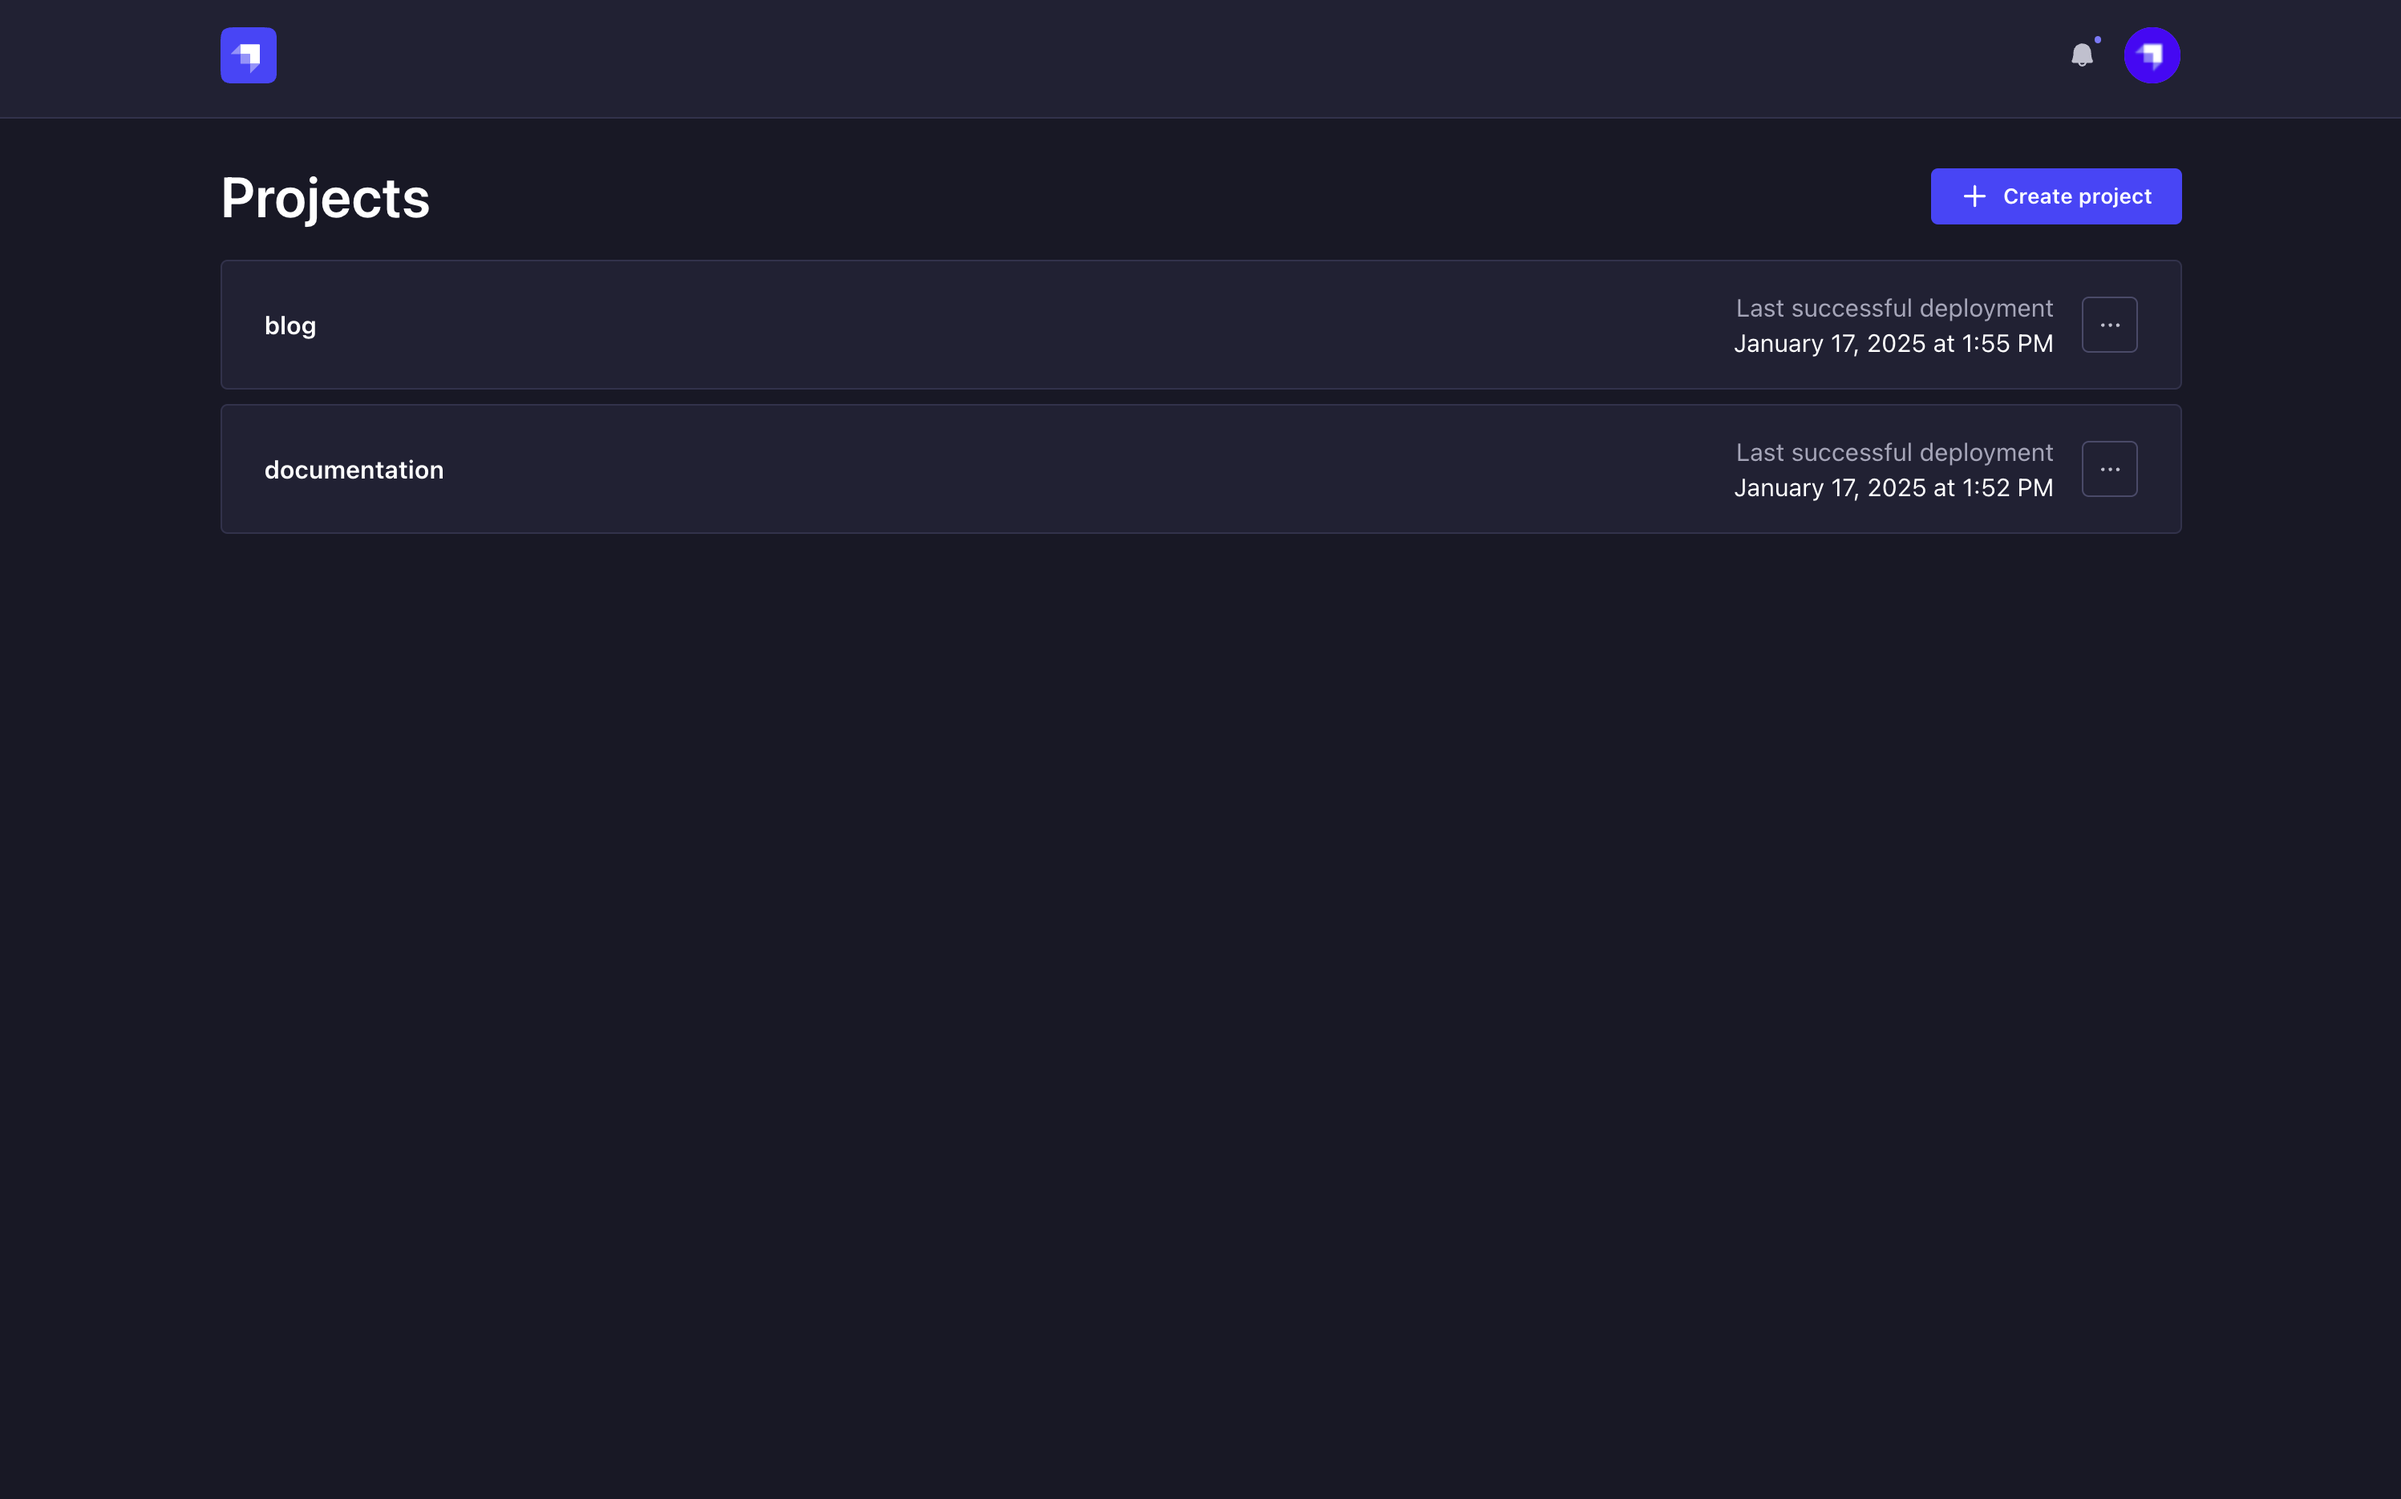
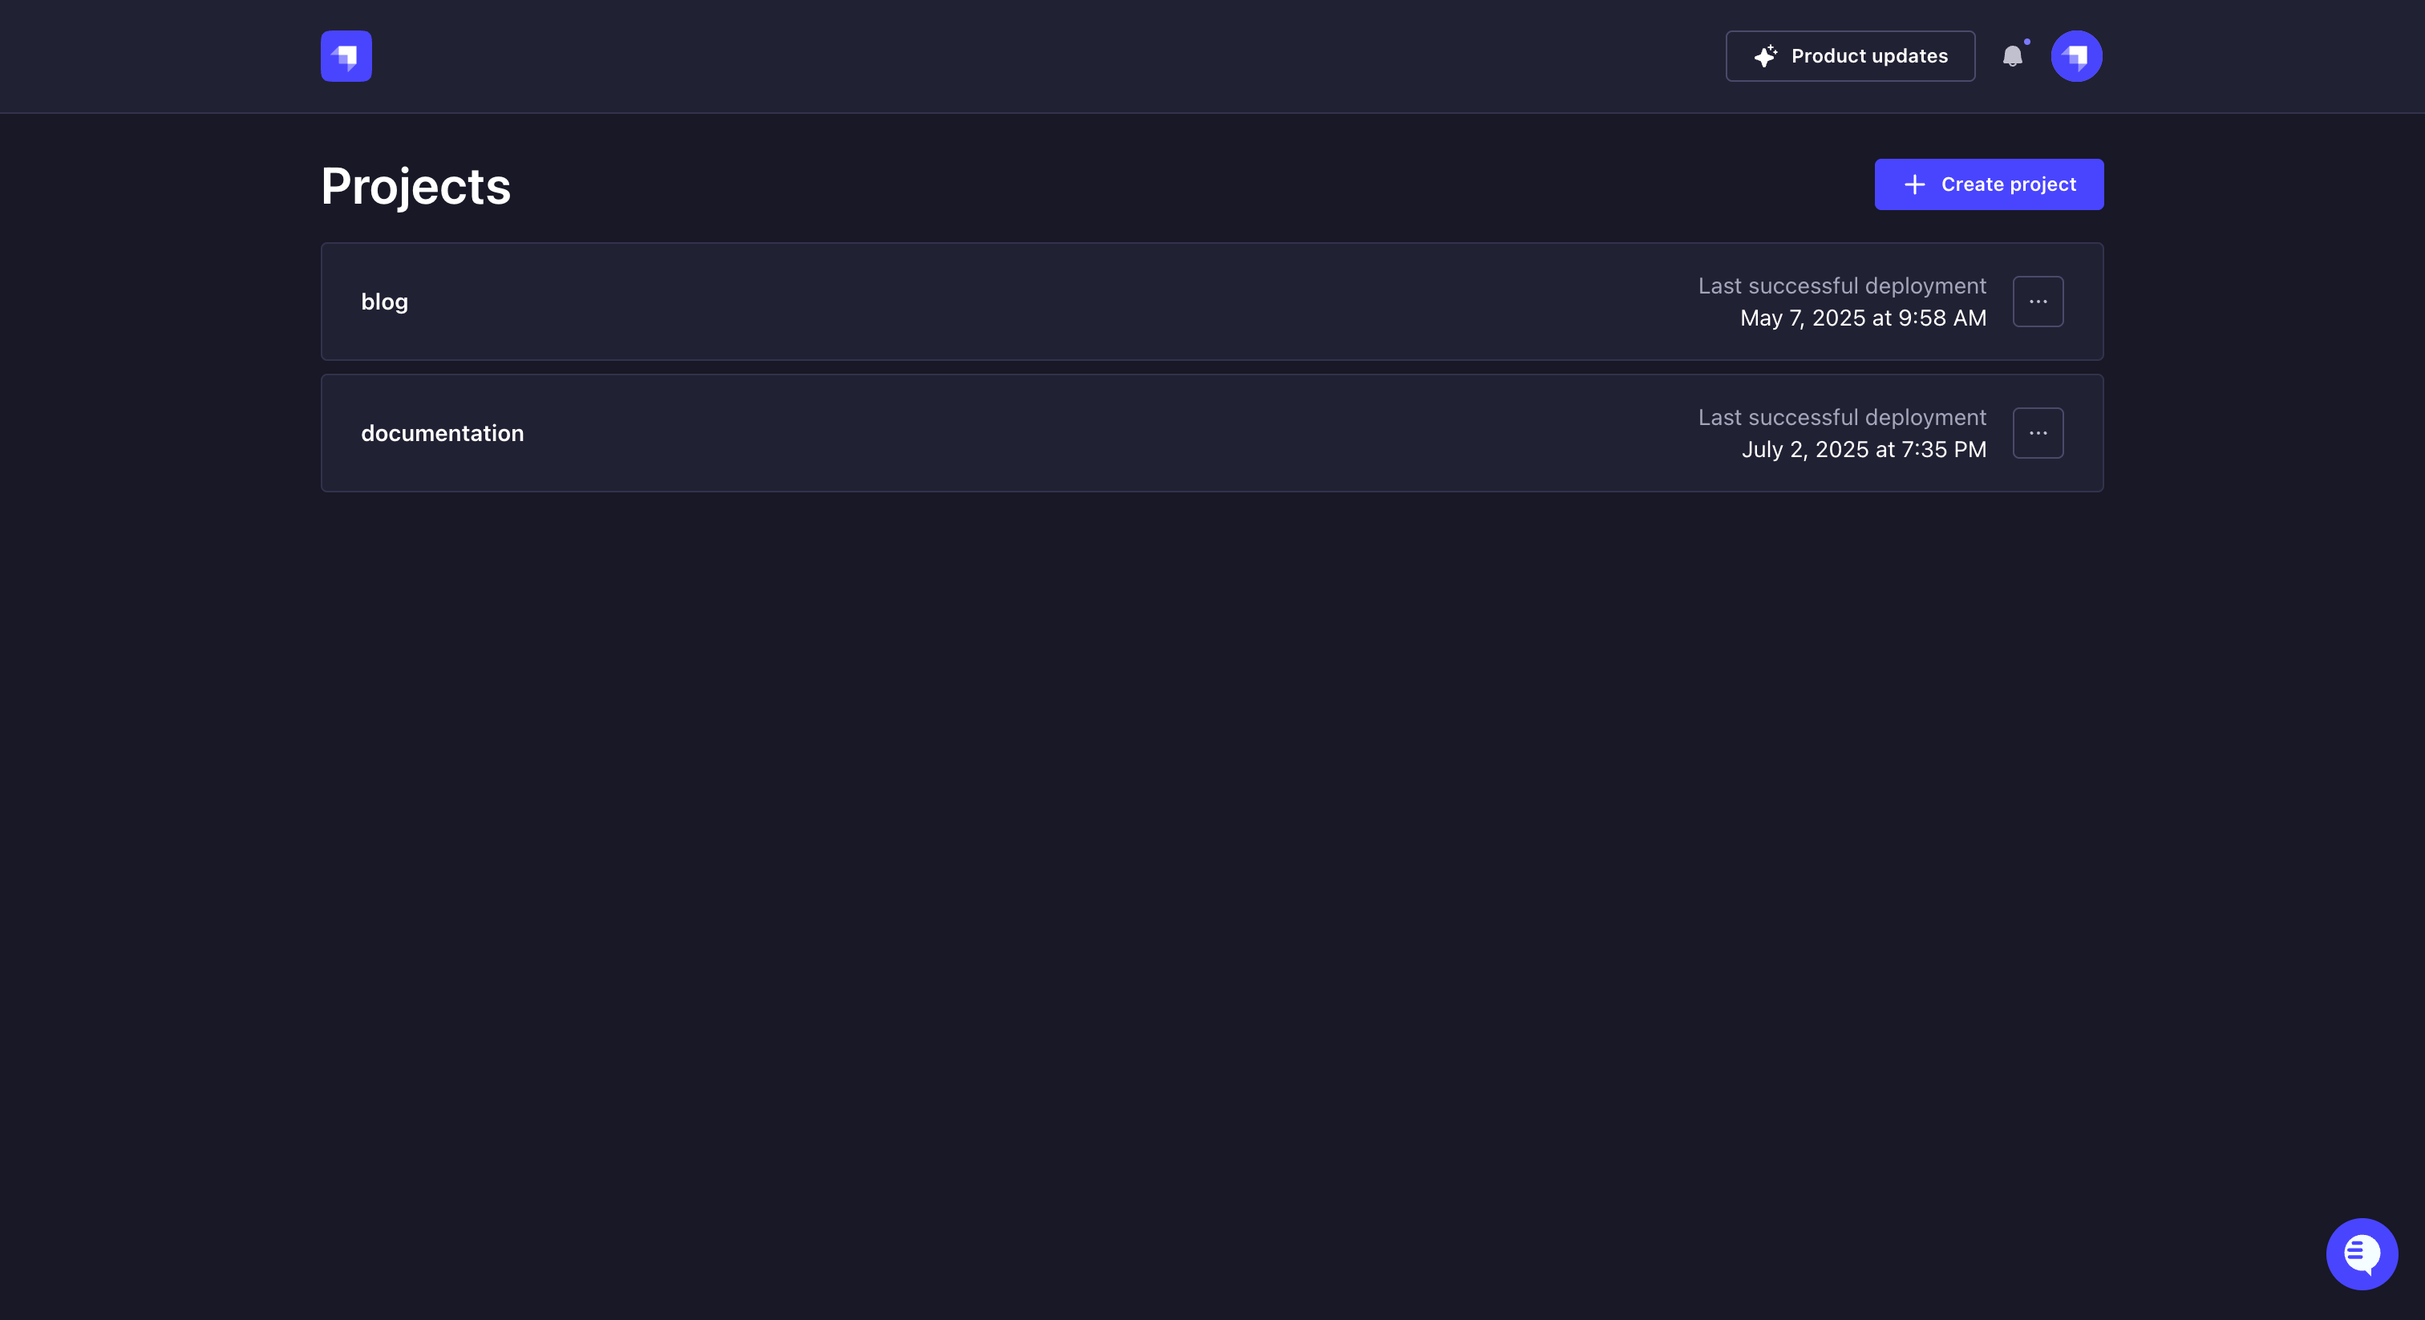
Cloud: Update content for Canny widget

diff --git a/docusaurus/docs/cloud/projects/overview.md b/docusaurus/docs/cloud/projects/overview.md
@@ -37,6 +37,11 @@ Each project card also displays a <Icon name="dots-three-outline" /> menu icon t
 * **Go to Deployments**: to be redirected to the [*Deployment*](/cloud/projects/deploys) page
 * **Go to Settings**: to be redirected to the [*Settings*](/cloud/projects/settings) page
 
+:::tip
+Click on the *<Icon name="sparkle"/> Product updates* button in the navigation bar to check out the latest features and fixes released.
+:::
+
+
 ## Accessing a project's dashboard
 
 From the *Projects* page, click on any project card to access its dashboard. It displays the project and environment details and gives access to the deployment history and all available settings.
